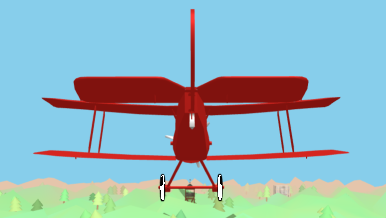
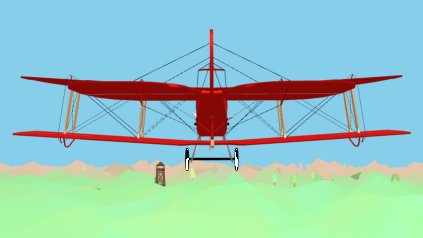
del airplane

diff --git a/utils/aircraft/Warplane.js b/utils/aircraft/Warplane.js
@@ -13,7 +13,7 @@ export default class Warplane extends GameObject {
     this.position.y = y
     this.minHeight = y / 2
     this.maxHeight = y * 2
-    this.maxRoll = Math.PI / 3
+    this.maxRoll = Math.PI * .4
     this.missiles = []
     this.last = Date.now()
     this.interval = 500
@@ -26,7 +26,7 @@ export default class Warplane extends GameObject {
     if (camera) {
       this.chaseCamera = new ChaseCamera({
         camera, mesh: this.mesh, rotate: false,
-        speed: this.speed * .5,
+        speed: this.speed * .75,
         offset: [0, 0, this.depth],
         lookAt: [0, 0, 0],
         birdsEyeOffset: [0, this.height * 12, 0],

diff --git a/utils/aircraft/derived/Biplane.js b/utils/aircraft/derived/Biplane.js
@@ -5,7 +5,7 @@ import Warplane from '../Warplane.js'
 // aircraft/airplane/biplane-bristol-f2b/model.fbx
 
 const [mesh, propeller] = await Promise.all([
-  await loadModel({ file: 'aircraft/airplane/biplane-sopwith/model.fbx', size: 2.5 }),
+  await loadModel({ file: 'aircraft/airplane/biplane-bristol-f2b/model.fbx', size: 2.5 }),
   await loadModel({ file: 'item/propeller/model.fbx', size: 1.5, angle: Math.PI }),
 ])
 

diff --git a/README.md b/README.md
@@ -13,17 +13,15 @@ npx live-server
 
 - ukloniti dispose
 - ukloniti createFir
+- merge Aircraft i Zeppelin u Airship
 
 ### Scenes & examples
 
 - Warplane / 1943
-  - poeni za uništene fabrike, penali za civilne zgrade
+  - poeni za uništene fabrike (penali za civilne zgrade?)
+    - dodati paljenje fabrika (i drugih zgrada?)
   - sletanje na kraju misije?
-  - spojiti sa airplane?
-
-- Airplane
-  - sunce da prati avion
-  - da leti iznad yu mape (ako nije presporo)
+  - dodati potisak na f18
 
 - Tenk
   - koristiti TankPlayer
